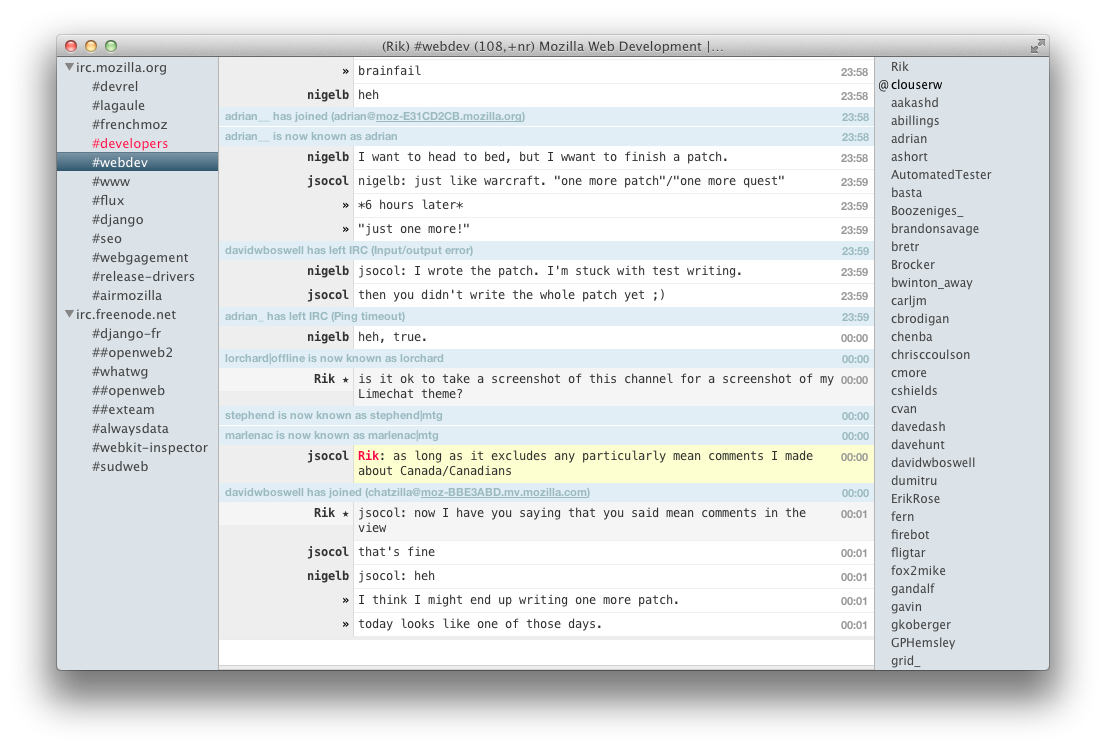
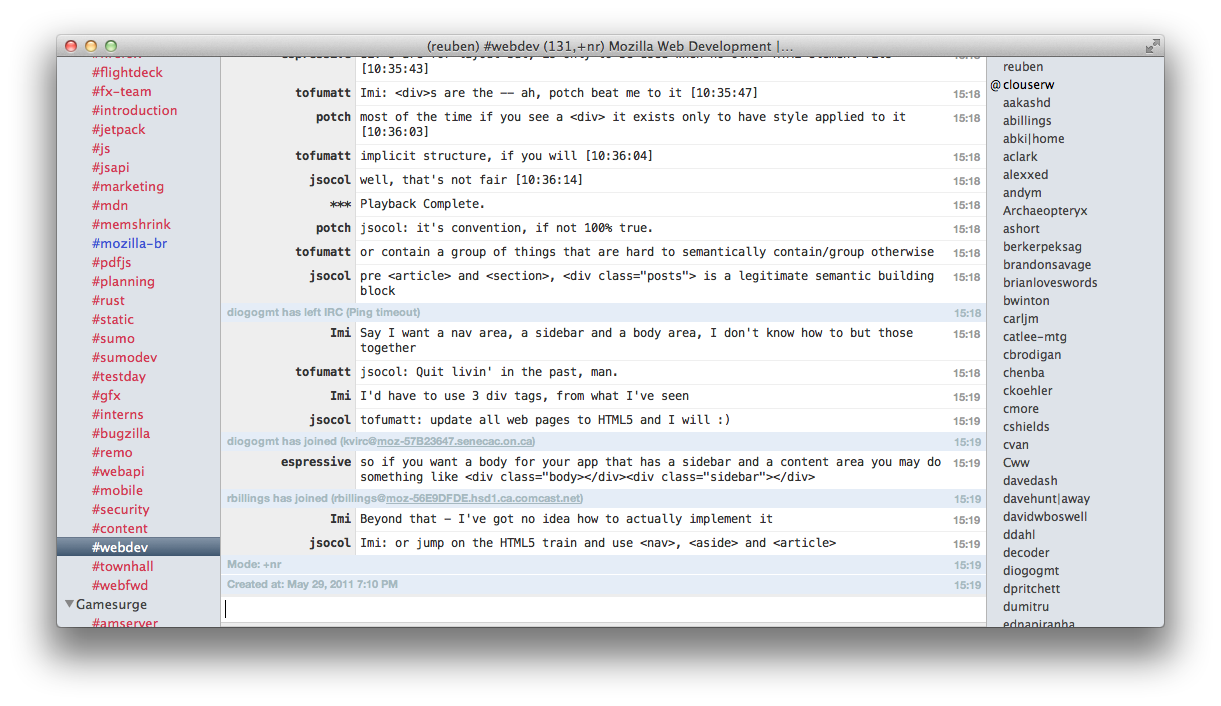
A few modifications

Changed region(s): [[0.0307, 0.0312, 0.953, 0.9037]]

diff --git a/Whisper.css b/Whisper.css
@@ -165,10 +165,6 @@ a {
     
 }
 
-.line[type=action] .sender:before {
-    content: "";
-}
-
 body.normal .line[type=action] .sender {
     font-style: italic;
 }
@@ -355,17 +351,11 @@ body.normal .message[type=debug_send] {
 body.normal .message[type=debug_receive] {
     color: #444;
 }
-.sender[first=false] {
-    color: #eee !important;
-    margin-right: 0;
+
+body.normal .sender[type=myself] {
+    color: rgba(0, 0, 0, 0.5);
 }
-.sender[first=false]:after {
-    content:"»"; color: black;
-    /*margin-right: 0.5ex;*/
-}
-body.normal .sender[type=myself]:after {
-    content: " ★";
-}
+
 body.normal [type=myself], body.normal .sender[type=myself] + .message {
     background-color: #f5f5f5;
 }
